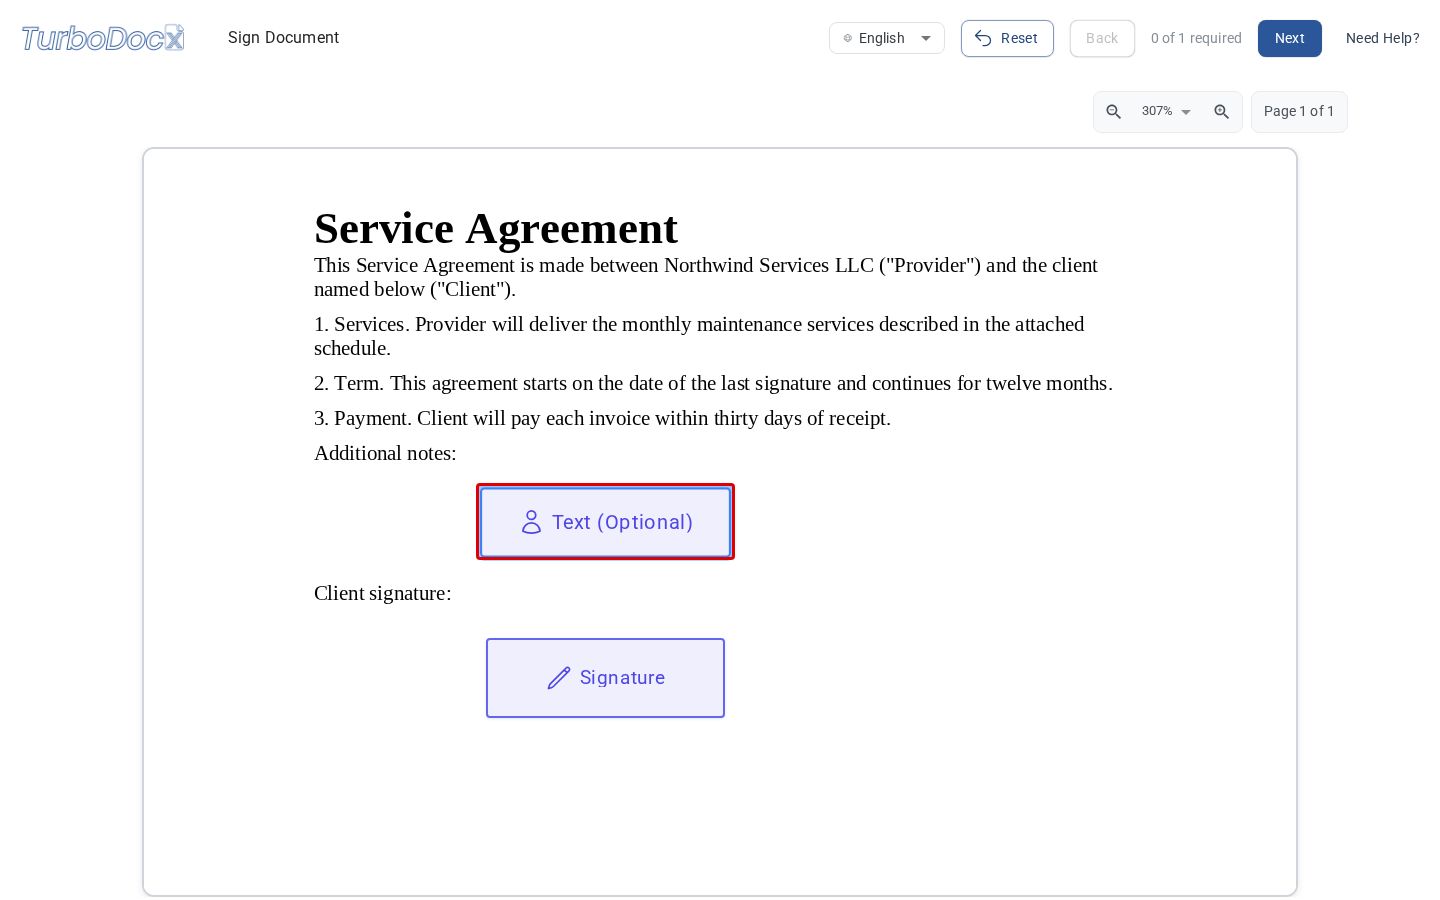
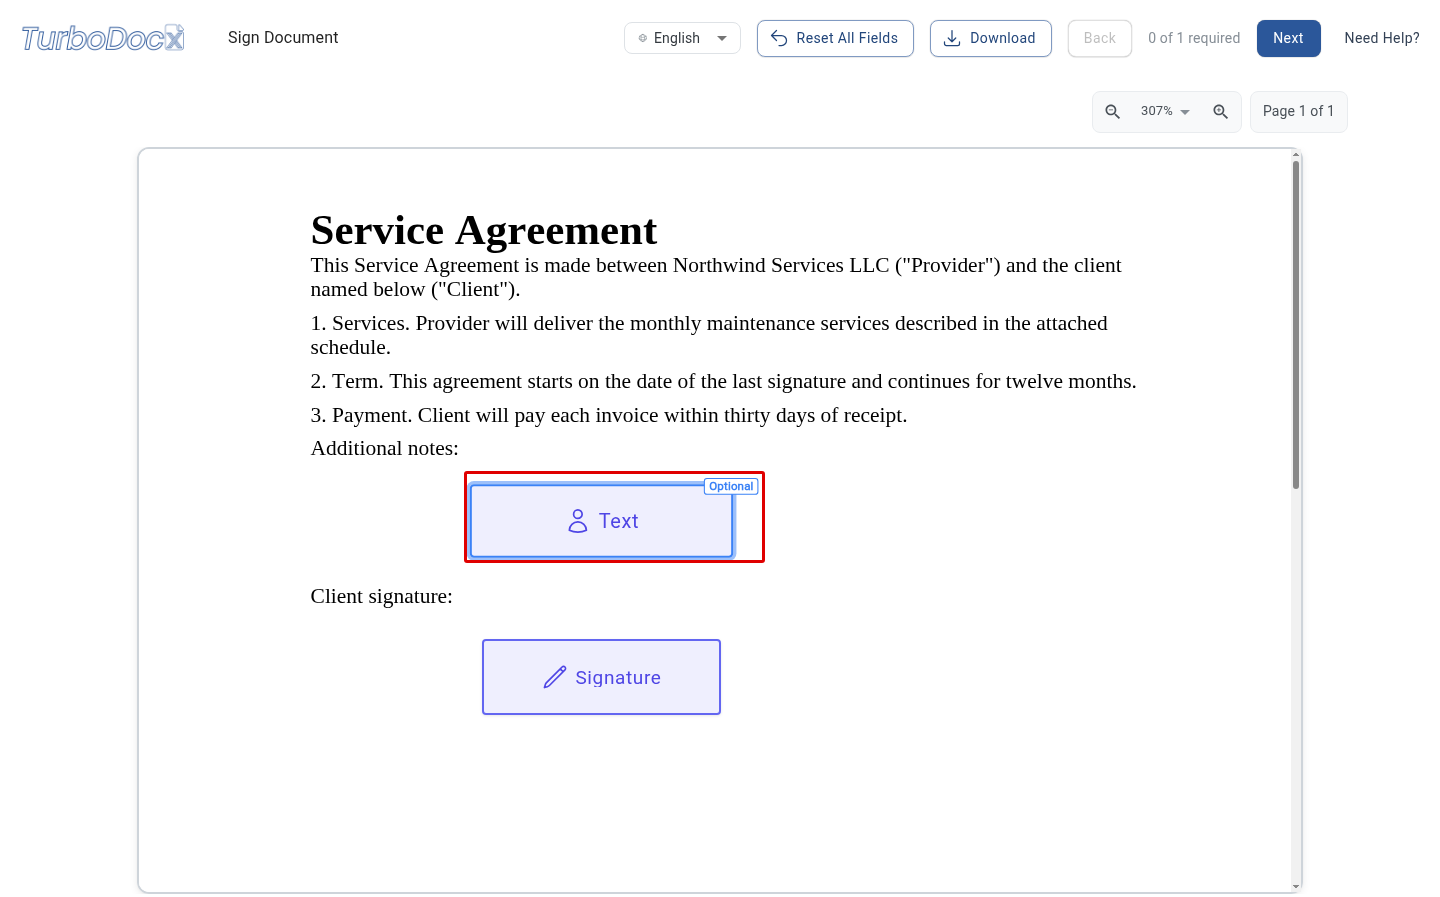
docs(turbosign): match optional fields to the current signing page
- The signing page now marks an empty optional field with a small "Optional"
  tag on its top-right corner instead of "Text (Optional)"; locked fields
  (read-only or still locked by a rule) never show it. Signers can empty a
  filled optional field with "Clear field".
- API: null means not set, isReadonly and required:false can be combined.
- Guide: locking a field hides its Required setting.
- Conditional Fields: an unlock-locked field is only enforced once unlocked.
- Recaptured the signer screenshots for the new tag and the renamed
  "Reset All Fields" button.

diff --git a/docs/TurboSign/API Signatures.md b/docs/TurboSign/API Signatures.md
@@ -1196,7 +1196,7 @@ The `metadata` object allows you to customize the recipient's UI appearance:
 | --------------- | ------- | -------- | -------------------------------------------------------------- |
 | recipientEmail  | String  | Yes      | Email address of recipient (matches email in recipients array) |
 | type            | String  | Yes      | Field type (see table above)                                   |
-| required        | Boolean | No       | Whether the signer must fill the field (default: `true`). Send `false` to let the signer leave it blank and still finish. Must be a JSON boolean, not the string `"false"`. Cannot be `false` on `signature` or `initial` fields. See [Optional Fields](#optional-fields) |
+| required        | Boolean | No       | Whether the signer must fill the field (default: `true`). Send `false` to let the signer leave it blank and still finish. Must be a JSON boolean, not the string `"false"`; `null` is treated as not set (required). Cannot be `false` on `signature` or `initial` fields. See [Optional Fields](#optional-fields) |
 | defaultValue    | String  | No       | Pre-filled value for the field (max 600 characters). This is a real value that is submitted with the signature, not placeholder hint text |
 | isReadonly      | Boolean | No       | Makes field non-editable (for prefilled values)                |
 | backgroundColor | String  | No       | Custom background color (hex or rgba)                          |
@@ -1256,7 +1256,8 @@ Rules:
 - **Signature and initial fields are always required.** Sending `required: false` on a
   `signature` or `initial` field is rejected with `400 OptionalNotSupported`.
 - **`required` must be a JSON boolean.** Any other value, including the string `"false"`, is
-  rejected with `400 InvalidFieldRequired`. Omitting `required` is the same as `true`.
+  rejected with `400 InvalidFieldRequired`. Omitting `required`, or sending `null`, is the same as
+  `true`.
 - **Each recipient needs at least one required, editable field.** A field counts when it is not
   `isReadonly` and its `required` is not `false`. A signature field always counts. A recipient
   whose fields are all optional or read-only is rejected with
@@ -1268,9 +1269,17 @@ Rules:
 - **`defaultValue` is a real value, not hint text.** If you put instructions such as "Explain any
   changes here" in `defaultValue`, that text is submitted and lands on the signed PDF unless the
   signer clears it. Leave `defaultValue` empty on an optional field you want to stay blank.
+- **`isReadonly` and `required: false` can be combined.** A read-only field is pre-filled and the
+  signer can't change it, so it never holds up signing, whether it is required or not. A field
+  that a conditional rule still hides or locks never holds up signing either.
 
-On the signing page, an empty optional field is labeled with "(Optional)" (for example
-"Text (Optional)"), and the "N of M required" progress counter leaves optional fields out.
+On the signing page, an empty optional field keeps its normal label (for example "Text") and shows
+a small **Optional** tag on its top-right corner. The "N of M required" progress counter leaves
+optional fields out. A locked field never shows the tag: that covers a read-only field and a field
+that a conditional `unlock` rule still holds locked, and the tag appears once the rule unlocks it.
+A locked field shows its lock icon instead when your organization draws locked fields as grey
+boxes (see [Locked Fields Rendering](/docs/TurboSign/How%20to%20Configure%20Signature%20Appearance)). If the
+signer fills in an optional field and changes their mind, they can open it and click **Clear field**.
 
 `required` works the same way on prepare-for-signing, prepare-for-review, and in each
 `documents[].fields` array of the [Bulk API](/docs/TurboSign/API%20Bulk%20Signatures).
@@ -1847,7 +1856,7 @@ formData.Add(new StringContent(recipients), "recipients");
 | Code                           | Cause                                                                                   | Fix                                                                  |
 | ------------------------------ | --------------------------------------------------------------------------------------- | -------------------------------------------------------------------- |
 | `OptionalNotSupported`         | `required: false` on a `signature` or `initial` field                                    | Remove `required` from that field, or set it to `true`               |
-| `InvalidFieldRequired`         | `required` is not a boolean (for example the string `"false"`)                           | Send a JSON boolean: `true` or `false`                               |
+| `InvalidFieldRequired`         | `required` is not a boolean or `null` (for example the string `"false"`)                 | Send a JSON boolean: `true` or `false`                               |
 | `NoEditableFieldsForRecipient` | A recipient has only optional or read-only fields                                        | Give that recipient at least one required, editable field, such as a signature |
 
 **Example Error Response**:

diff --git a/docs/TurboSign/Setting up TurboSign.md b/docs/TurboSign/Setting up TurboSign.md
@@ -305,12 +305,13 @@ Every field you place is required by default: the signer can't finish until it's
 
 ![The field settings panel with the Required setting and its "Signer must fill this field" checkbox highlighted](/img/turbosign/optional-fields/01-required-setting.png)
 
-When the signer opens the document, an empty optional field shows "(Optional)" after its name, for example **Text (Optional)**. The "N of M required" counter only counts required fields, so the signer can submit once those are done.
+When the signer opens the document, an empty optional field keeps its usual label and shows a small **Optional** tag on its top-right corner. The "N of M required" counter only counts required fields, so the signer can submit once those are done. If the signer fills in an optional field and changes their mind, they can open it again and click **Clear field**.
 
-![The signing page with an empty text field labeled "Text (Optional)" and the counter reading "0 of 1 required"](/img/turbosign/optional-fields/02-signer-optional-label.png)
+![The signing page with an empty text field carrying an "Optional" tag on its top-right corner and the counter reading "0 of 1 required"](/img/turbosign/optional-fields/02-signer-optional-label.png)
 
 :::note Good to know
 - **Signature, Initials, Date, and Checkbox fields don't have a Required setting.** Signatures and initials are always required. Date and checkbox fields are always filled in on the signing page.
+- **Locked fields don't have a Required setting either.** When you check **Make field read-only** under **Lock Field**, the Required setting disappears: a locked field is pre-filled and the signer can't change it, so it never holds up signing, and signers never see the Optional tag on it.
 - **A blank optional field stays empty** on the signed PDF.
 - **A default value is a real answer, not a hint.** If you type instructions into an optional field's default value, that text ends up on the signed PDF unless the signer clears it. Leave the default value empty if the field should stay blank.
 - **Each recipient needs at least one required field they can fill out**, such as a signature. If a recipient only has optional or read-only fields, the editor shows "Some recipients have no required editable fields" and you can't send until you fix it.

diff --git a/docs/TurboSign/API Bulk Signatures.md b/docs/TurboSign/API Bulk Signatures.md
@@ -283,7 +283,7 @@ within the same job's `fields` array. See
 :::note Optional fields are supported
 Set `required: false` on a field in `documents[].fields` to let the signer leave it blank. The
 same rules as the single-step API apply: `signature` and `initial` fields cannot be optional,
-`required` must be a JSON boolean, and each recipient needs at least one required, editable
+`required` must be a JSON boolean (`null` counts as not set, so the field stays required), and each recipient needs at least one required, editable
 field. A document that breaks a rule fails the batch with `BulkValidationFailed`, and the
 failing document is listed in the error details with its specific code (`OptionalNotSupported`,
 `InvalidFieldRequired`, or `NoEditableFieldsForRecipient`). See
@@ -634,7 +634,7 @@ Common error codes you may encounter:
 | `BatchNotCancellable`  | Batch already completed                     | Cannot cancel completed batches         |
 | `InsufficientCredits`  | Not enough credits for batch                | Add credits to organization             |
 | `OptionalNotSupported` | Per document, inside `BulkValidationFailed`: `required: false` on a signature or initial field | Remove `required` or set it to `true` |
-| `InvalidFieldRequired` | Per document, inside `BulkValidationFailed`: `required` is not a boolean (e.g. `"false"`) | Send `true` or `false` as a JSON boolean |
+| `InvalidFieldRequired` | Per document, inside `BulkValidationFailed`: `required` is not a boolean or `null` (e.g. `"false"`) | Send `true` or `false` as a JSON boolean |
 | `NoEditableFieldsForRecipient` | Per document, inside `BulkValidationFailed`: a recipient has only optional or read-only fields | Give the recipient a required, editable field such as a signature |
 
 ---

diff --git a/docs/TurboSign/Conditional Fields.md b/docs/TurboSign/Conditional Fields.md
@@ -301,7 +301,10 @@ existing checkbox's `fieldKey`.
 - Keep `fieldKey` values short, stable, and unique within a document (`request_changes`,
   `override_amount`, `consent`).
 - A dependent field that is `required: true` but hidden via `action: "show"` is only enforced
-  once it becomes visible — don't rely on a hidden required field to block completion.
+  once it becomes visible — don't rely on a hidden required field to block completion. The same
+  goes for a field held read-only by `action: "unlock"`: it is only enforced once the box unlocks it.
+- Set `required: false` on a dependent field if the signer may leave it blank even after it
+  appears or unlocks. See [Optional Fields](/docs/TurboSign/API%20Signatures#optional-fields).
 - The controlling checkbox and its dependent fields should generally belong to the **same
   recipient** so the same signer both toggles the box and fills the revealed field.
 
